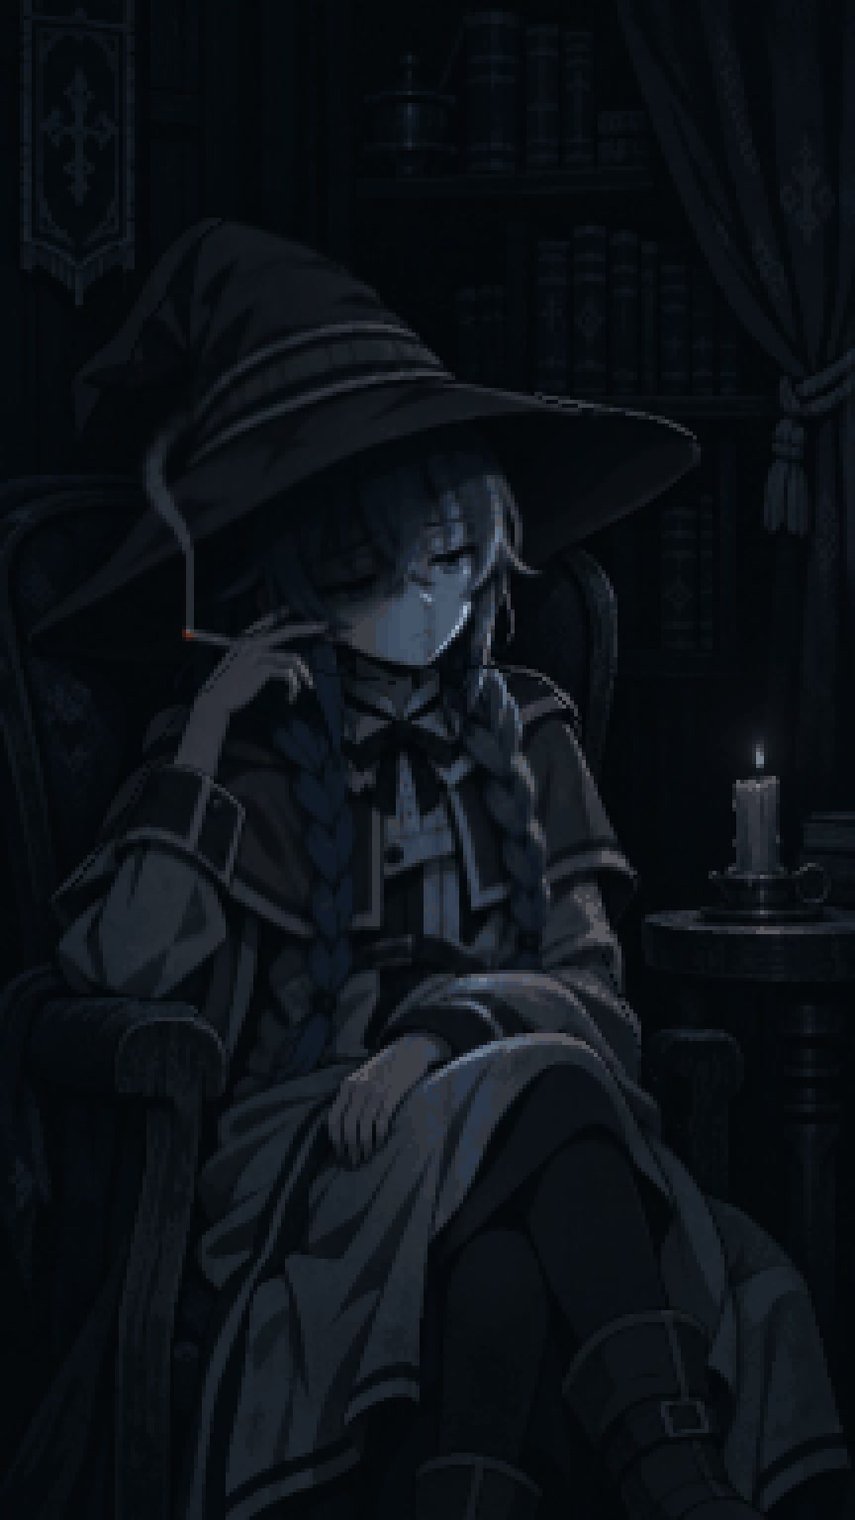
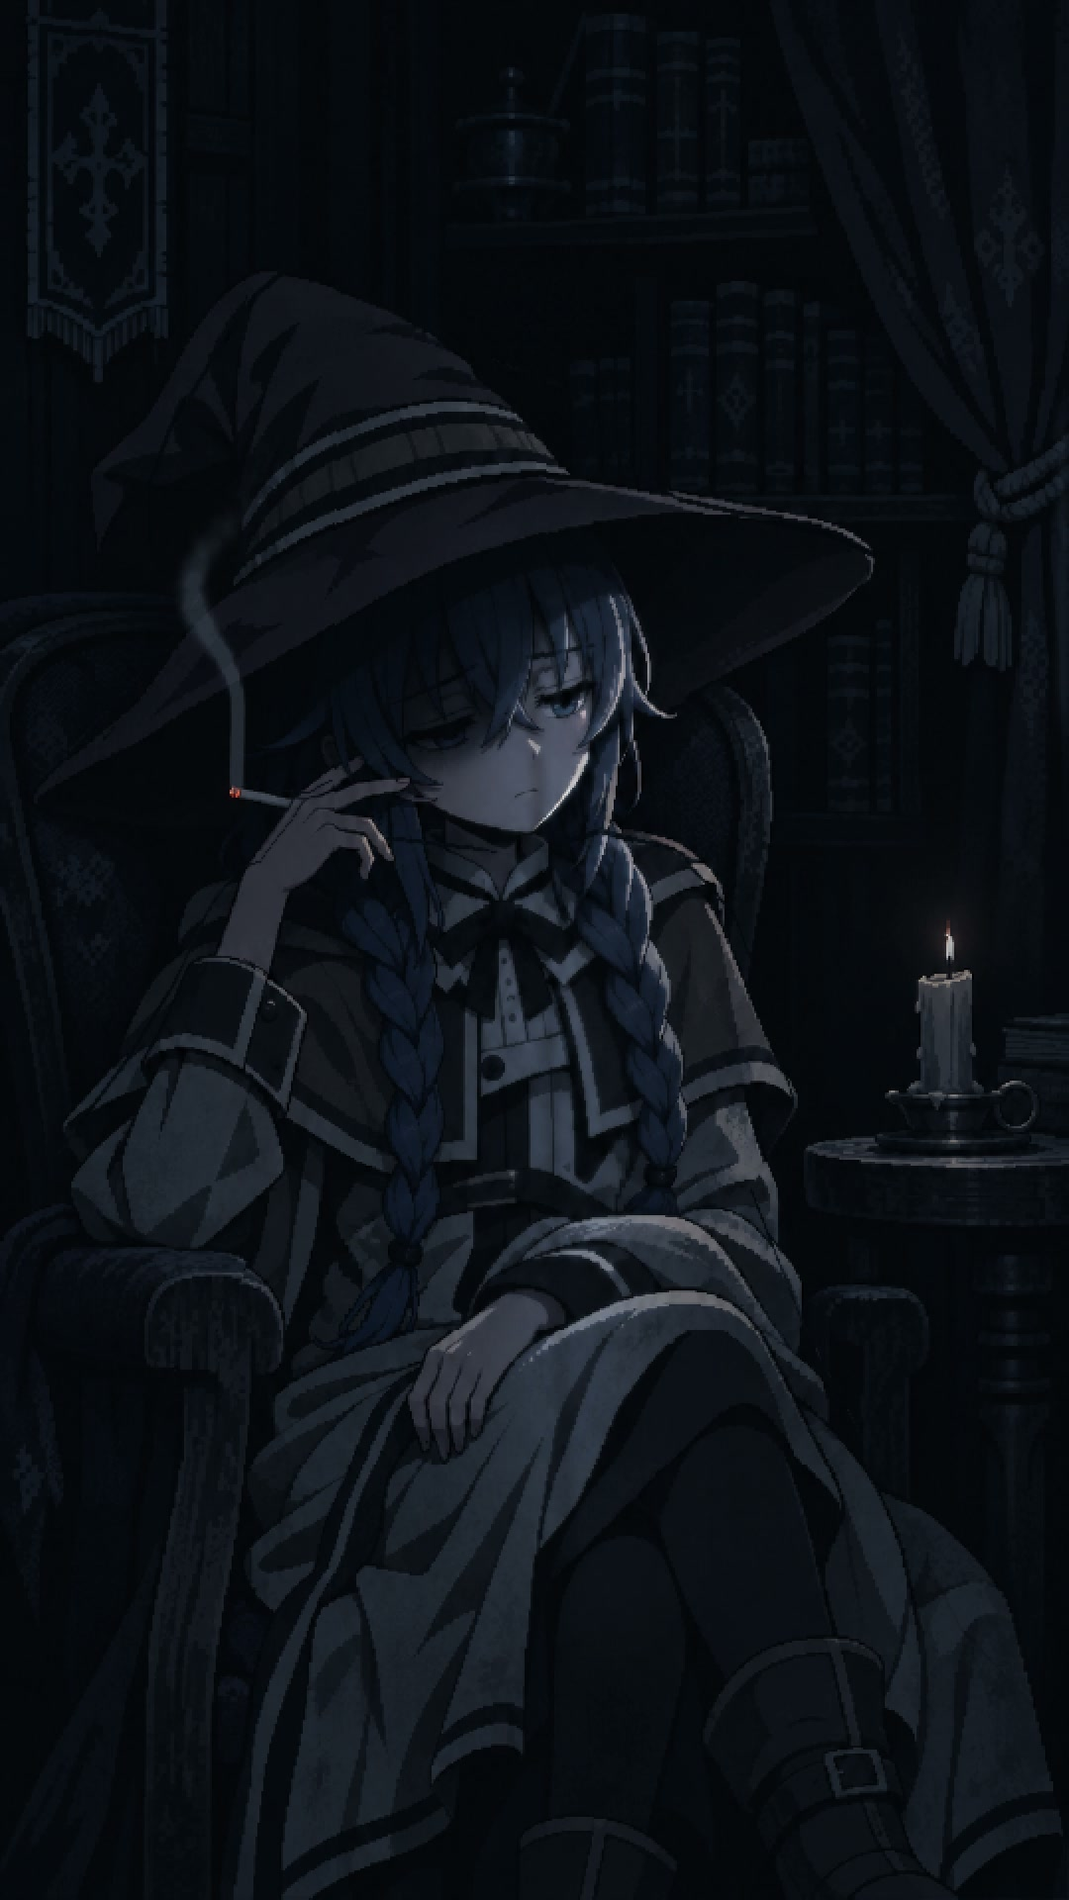
Preserve source detail and repair Roxy blinks

diff --git a/skills/atlas-pixel-mood-reel/references/anime-pixel-clips.md b/skills/atlas-pixel-mood-reel/references/anime-pixel-clips.md
@@ -32,7 +32,11 @@ Scope: short vertical clips (15-30 s, 1080x1920). A famous anime scene or charac
 
 ## 2. Pixelize, then edit at grid level
 
-- **Pipeline.** Crop to 9:16, BOX-downscale to 180x320, apply `MedianFilter(3)`, quantize to about 40-44 colours (MEDIANCUT, no dither), then upscale x6 nearest to 1080x1920.
+Choose settings per base; the numbers below are recipe starting points, not mandatory grid or palette limits.
+
+- **Quality comparison.** Compare matching face, braid and clothing crops from the approved source, the logical-grid render before encoding and the decoded MP4 at the same scene time. Keep iris separation, a readable lash and hair strands while retaining visible dots at phone width. Separate grid/palette loss from codec loss; a low encode error does not excuse detail already missing before encoding. Increasing export dimensions, even to 4K, cannot recover that missing source detail.
+- **Preserve the ramps.** Start each render from the approved source and perform the intended grid reduction once. Keep enough local dark tones to separate hair, skin and cloth; repeated resizing, median filtering or quantization can collapse them. Adjust the grid or palette when those features fail instead of sharpening an already collapsed result.
+- **Pipeline example.** Crop to 9:16, BOX-downscale to 180x320, apply `MedianFilter(3)`, quantize to about 40-44 colours (MEDIANCUT, no dither), then upscale x6 nearest to 1080x1920. Compare against the source before adopting this coarse treatment.
 - **Low-key bases** (one small light source, mostly shadow):
   - Skip the median filter.
   - Raise contrast 1.25x before the downscale.
@@ -58,10 +62,10 @@ Scope: short vertical clips (15-30 s, 1080x1920). A famous anime scene or charac
   - **Redrawn round anime eyes (when the base's eyes must be replaced):** the eye has two colours only, a near-white sclera and one solid black pupil disc about 60% of the eye width, with no grey iris ring and no catchlight. A grey ring around a black pupil reads as a target, and a catchlight brighter than the sclera reads as a white inside the white. Repaint the old eye area by sampling outward from the eye centre, so the surrounding skin planes continue inward and no ellipse of another colour is left behind.
   - **Redraw eyes with the image model, not code layers:** when a base's eyes are rejected, edit the approved base with the image model and change only the eyes. Code painted over an existing drawing kept leaving nested outlines. If the edit endpoint refuses separate reference images, paste the reference frame as a small framed inset in a corner of the input and tell the model to paint it out. Write the eye spec into the prompt: heavy black upper eyelid sitting directly on the white; lower lid thin and broken; separate dark eye-bag crescent below with a sliver of skin between; small black pupil about 30-35% of eye width, slightly off-center; no outline ring around the eye. Present redesigned eyes with stable candidate IDs and eye zooms before building. Closed and mid-blink plates derived from unchanged approved eyes are motion assets; check their alignment and composite only the measured eye regions.
   - **Dark circles, not socket rings:** around a redrawn eye, repaint the base's dark socket mass as one flat skin tone, keeping only wide hair masses and thin strands that cross from above. The dark circle is one 2-step crescent under the eye only: the darker step touches the lower lid, then one step lighter. Make it wider than the eye and drooping a little at the outer end, never above the eye or up its sides, and never black. A dark socket, a lighter band and the eye outline stacked around the white read as "an eye inside an eye inside an eye". Black goes only on the upper lid line and the pupil. Check the open eye at the same zoom as the viewer's crop, and count the closed eye-shaped outlines: only the upper lid should read as one.
-  - **Whole-eye close:** the upper lid starts at the eye's outer top line and paints skin down to its leading edge. The black lash travels on that edge, and nothing of the open outline, socket ring or crease stays above it. The lower lid rises a little to meet it, and the lower lid line merges into the lash past about 60%. The pupil disc is never moved or squashed, only covered. A lid that moves inside a smaller inner eye while the outer outline stays open reads as "only the inner eye closes".
-  - **Shut eye:** one lash curve spans the full eye width, bowed down and levelled to the screen. A stroke following the head tilt reads as a smirk. Skin sits under it, with one soft bag arc below.
-  - **Blink timing:** a held face blinks about twice per face section, never on a cut. A 0.3 s starting point at 30 fps is 9 frames: 3 closing (lid 0.25, 0.55, 0.85), 2 shut using the same drawing as the final shut eye, and 4 opening. Preserve those durations in seconds when the export frame rate changes. For a slow final close, pick each frame's lid state from a table of visible eye cells, so the visible eye shrinks linearly in time rather than holding and then snapping shut.
-  - **Blink:** close the eye with the eye's own shape. Fill only the cells between the lash curve and the descending lid edge, inside the eye outline (the iris/sclera mask), and sample each column's lid colour from the skin just above the lash. Draw the lash line at the lid's leading edge. A rectangle filled with one skin colour across the eye box read as a square box over the eye.
+  - **Whole-eye close:** use matched drawn mid-blink and closed-eye plates of the approved face. Follow the real eye aperture with fixed eye corners and unchanged bangs; the upper lid and dark lash move together while the pupil is covered, not squashed or moved. Extract only the intended eye region. A rectangular wipe or an invented straight lash cannot substitute for these aligned drawings.
+  - **Shut eye:** one natural dark lash follows the approved eye's corners and facial plane, with skin below it. Remove residual iris highlights and cyan inner arcs; a second bright curve can read as an eye still open inside the closed one.
+  - **Blink timing:** a held face blinks about twice per face section, never on a cut. A 0.3 s starting point at 30 fps is 9 frames: 3 closing (lid 0.25, 0.55, 0.85), 2 shut using the same drawing as the final shut eye, and 4 opening. Preserve those durations in seconds when the export frame rate changes. For a slow final close, define half-close and shut beats in seconds and interpolate the matched drawings continuously; simply lengthening a wipe does not make it natural.
+  - **Blink continuity:** interpolate through the aligned drawings using the same eye-aperture mapping into full closure. Do not switch to an unrelated full-close branch at the last threshold. Review actual encoded onset, half-close, shut and reopening frames with their immediate neighbours, then watch the whole blink at phone width. Inspect eye-region frame deltas for a sudden jump, lash replacement or wipe; a pleasing closed still alone does not establish a natural blink.
   - **Painted smoke in the base** (the generator draws a frozen plume, and animated smoke goes on top). Avoid this by prompting the base without smoke. Use this recipe only when the chosen base already has a plume:
     - **Mask:** the largest connected component of `lum - median31(lum) > 6` and low saturation inside a box around the plume, closed, dilated about 14 px. Add a hand-traced centreline through measured points, from the tip to the top curls, stamped as 15 px discs to take the haze. Protect hair, hood and hand, and the lit tip, by rules. A threshold mask on its own caught book edges and hair strands, and it missed the plume's base and top.
     - **Fill:** copy each masked pixel from the nearest clean pixel on its row, mirrored. Shelves and spines are horizontal or vertical, so this keeps them aligned. Then feather the edge about 2 px.
@@ -96,7 +100,7 @@ Scope: short vertical clips (15-30 s, 1080x1920). A famous anime scene or charac
 ### When fluid character motion is requested
 
 1. **Plan a readable beat.** Pair a slow head inclination or shoulder breath with delayed braid-tip motion and a natural blink. At 216x384, roughly 1-2 art px of breath or tip travel and a 1-degree head tilt are useful proof ranges, not mandatory amplitudes. Judge the result at phone width; a camera zoom or changing noise does not establish character acting.
-2. **Prepare matched plates.** Keep the approved drawing as the foreground. Generate an empty-room/chair plate for revealed edges and an eyelids-closed plate for blinks, preserving camera, geometry, palette and lighting. Compare fixed background landmarks and eye corners before extracting masks. Replace only the intended regions so an edit cannot subtly redesign the rest of the frame.
+2. **Prepare matched plates.** Keep the approved drawing as the foreground. Generate an empty-room/chair plate for revealed edges and matched mid-blink and eyelids-closed plates, preserving camera, geometry, palette and lighting. Compare fixed background landmarks, eye corners and bangs before extracting masks. Replace only the intended regions so an edit cannot subtly redesign the rest of the frame.
 3. **Move connected parts coherently.** Incline the head and hat as a rigid cutout around the neck over the clean plate. Feather the shoulder breathing ramp, pin hair at its roots and delay the braid tips. Keep furniture static and inspect the neck, hat edge, elbows and braid overlaps for holes, double edges or rubber-like warping. Move the cigarette and its smoke emitter through the same transform; each particle retains its emitter position at birth.
 4. **Render the requested cadence.** Evaluate motion at `t = frame_index / fps`, quantize onto the shared art grid and enlarge with nearest-neighbour sampling. Express blink duration in seconds so a 60 fps export does not halve a 30 fps blink's timing. Slow closure covers the original eye shape with aligned lids, followed by a short shut hold and a gentler reopening.
 5. **Review the encoded proof.** Include the largest movement, blink and their transitions. Inspect playback and neighbouring decoded frames at phone width, then follow the [feedback loop](feedback-loop.md) before the full render. Frame counts and unique hashes establish cadence; visible head, braid and shoulder changes establish acting.

diff --git a/docs/ROXY.md b/docs/ROXY.md
@@ -1,32 +1,29 @@
 # Roxy, after midnight
 
-Roxy Migurdia sits in a cold room with a cigarette and a faint candle. A narrow band of moonlight enters through the right curtain gap, reaches her face, braids and lap, then fades as though clouds cover the moon. This is a fan-made situation, with the accepted blue braids, witch hat and magician robe preserved.
+Roxy Migurdia sits in a cold room with a cigarette and a faint candle. Narrow moonlight enters through the right curtain gap, reaches her face, braids and lap, then fades as clouds pass. The accepted blue braids, witch hat, modest magician robe and left-hand cigarette composition remain intact.
 
-The requested format is 24 seconds, 1080×1920 at 60 fps, with no on-screen titles, captions, lyrics or decorative labels. The completed delivery is one canonical full-frame MP4; additional formats or exports require an explicit request. Library copies preserve that same master's bytes. The video and music files are not stored in this repository.
+The current v4 delivery is one text-free, full-frame MP4: **24 seconds, 2160×3840 at 60 fps**. Additional exports require an explicit request; library copies preserve the approved master bytes. Video and music files are not stored in this repository.
 
-## What the feedback changed
+## Repairing the rejected image and blink
 
-- **Identity and mood:** lock the accepted source by ID and hash, retain Roxy's canonical silhouette, and keep the grade cold and dark rather than amber and cosy.
-- **Visible acting:** make the head and hat incline together around the neck, deepen shoulder breathing and add delayed braid-tip follow-through. Use a matched closed-eye plate for two slow blinks and a clean room plate for newly revealed edges. Smoke starts at the moving cigarette tip.
-- **Moonlight:** preserve that acting and add only the source-shaped light pass. Light arrives over 3–9 seconds and fades through cloud-like occlusion from 13.5–22 seconds. The candle and unlit room corners do not follow the moonlight's exposure.
-- **Sound:** align the requested passage to the actual source, then put the music behind a karaoke-room door. Keep breath and cloth effects close to the listener, outside the distant music's reverberation path.
+The requester rejected v3's eye closure and picture quality. A source/logical/encoded comparison located most detail loss before encoding: reducing the 941×1672 drawing to 216×384 and limiting its colours merged iris, lash and hair detail. The old 0.9-second eyelid wipe left conflicting contours and switched abruptly to a separate shut-eye result near full closure. Its closed-eye plate also contained cyan arcs.
 
-## Proofs and measurements
+V4 samples the approved drawing directly onto a 540×960 grid, preserving the source's pixel clusters and local dark shade ramps without a global 160-colour cap. It performs one nearest-neighbour foreground warp per frame, then enlarges the grid ×4. The logical canvas contains 6.25 times as many cells as v3. The detail gain is established by matching source, pre-codec and decoded face crops, including a 360-pixel phone view.
 
-An independent review of the first encoded acting proof rated visibility 8/10, identity 9/10, edge continuity 8.5/10, gloom 9/10 and blink naturalness 8/10. The decoded head/face change was 21.21× the initial version, with braids 2.75×/3.44× and chest 3.15×. These comparisons support the phone-size visual review; they are not a substitute for watching the movement.
+New built-in imagegen edits supply aligned half-closed and closed-eye plates. Only the measured eye interiors change; the eye corners and overlying bangs stay anchored. Curved lash correspondence carries the open, half and closed drawings through one continuous motion. Each blink lasts 0.30 seconds, beginning at 6.88 and 17.88 seconds: 110 ms closing, 30 ms shut and 160 ms reopening. The single dark lash replaces the rejected glowing inner arc. A raw continuity probe across closure amounts 0.994–0.995 measured a maximum RGB change of 0.043, replacing the old branch's 68.57 jump; actual neighbouring encoded frames were also reviewed.
 
-The rendered moonlight stills, before video encoding, showed a peak affecting about 9.51% of the logical canvas. At 9.5 seconds the near face gained 20.30 luma and the lap/hand 8.29, while the far wall, dark corner and candle gained zero. At 23 seconds all measured moonlight lifts were zero. Unreached pixels keep the base palette; extra cold ramps are used only where the beam reaches. With moonlight disabled, five sampled frames matched the previously accepted acting exactly.
+Gentle head, shoulder and braid motion remains visible, with smoke emitted from the moving cigarette. Moonlight arrives over 3–9 seconds and disappears over 13.5–22 seconds while the room corners and candle retain their darkness.
+
+## Independent final review
+
+A fresh reviewer inspected both encoded blink sequences, native detail crops, phone-width playback, head motion and the full moonlight timeline. Scores were blink naturalness 8/10, detail 8.5/10, pixel readability 8/10, identity 9/10, edges 8.5/10 and gloom 9/10. The exact final master passed full decode and actual 0–24-second browser playback. It contains 1,440 frames with presentation steps of 1/60 second, within 1.1 microseconds.
+
[1 lines of base64/hex data omitted]
 
 ## Music timing and space
 
-The soundtrack is Mitski's [My Love Mine All Mine, official video](https://www.youtube.com/watch?v=vx4kLgnFexo). The requested approximately 1:49 vocal cue was aligned against the [official lyric video](https://www.youtube.com/watch?v=CwGbMYLjIpQ), whose audio matched this source at a 31.649-second offset (correlation 0.9314). A [timed phrase estimate](https://lrclib.net/api/get/36326470) put the cue at 110.569 seconds in this file; the cut starts at 110.349 seconds to retain its opening. The source window is 110.349–134.349 seconds. No lyrics are reproduced here.
+The soundtrack is Mitski's [My Love Mine All Mine, official video](https://www.youtube.com/watch?v=vx4kLgnFexo). The requested approximately 1:49 passage was aligned against the [official lyric video](https://www.youtube.com/watch?v=CwGbMYLjIpQ). Correlation found a 31.649-second source offset; a [timed phrase estimate](https://lrclib.net/api/get/36326470) placed the cue at 110.569 seconds, so the 24-second cut starts at 110.349 seconds. No lyrics are reproduced here.
 
-The path uses a 150 Hz speaker high-pass, 6.5 kHz speaker low-pass, wall low-passes at 2.1/4.2 kHz, restrained box resonance and wow, early reflections and dark hall tails. Wet/direct RMS was calibrated to 0.78 on this song. The mix measured vocal-envelope correlation 0.8148, IR T30 2.307 seconds and music 24 dB above room ambience. Subjective listening was not observed; these are measurement results.
[1 lines of base64/hex data omitted]
 
-The reusable procedure is in [the feedback-loop reference](../skills/atlas-pixel-mood-reel/references/feedback-loop.md). Keep full-resolution source/export hashes, decoded proofs and the final independent verdict with a production project, and preserve the approved master bytes when copying to a library.
-
-## Final export verification
-
-The independent review of the exact v3 exports passed: the full arrival over 3–9 seconds, gradual withdrawal and completely unlit ending at 22.5–23.983 seconds retain the cold mood, accepted character and text-free frame. All 1,440 decoded frames are unique; full decode and the requested 1080×1920, 60 fps, 24-second format passed. The final mux copies the reviewed silent video's packets exactly, and the decoded audio matches the measured Mitski mix at correlation 0.9999966. Sampled scene regeneration at 0, 9.5 and 23.983 seconds passed with access to previous project folders denied; no denied open was attempted.
-
[1 lines of base64/hex data omitted]
+The reusable procedure is in [the feedback-loop reference](../skills/atlas-pixel-mood-reel/references/feedback-loop.md). Keep actual decoded proofs and the exact final verdict with a production project, and compare against the requester's rejected output before accepting a repair.

diff --git a/skills/atlas-pixel-mood-reel/SKILL.md b/skills/atlas-pixel-mood-reel/SKILL.md
@@ -32,7 +32,7 @@ Every decision is judged against these. Explicit requester instructions take pri
 - **A real room.** Dark does not mean empty. The background is a readable interior in the dark (a window with neon blinds, pipes, a shelf, a poster).
 - **Text follows the request.** Default to full-frame artwork without added titles, caption bars, lyrics or decorative labels. Add wording only when it belongs to the requested scene or the requester asks for it; a request for no text also removes title framing from alternate exports.
 - **One completed MP4.** Deliver one canonical master by default. For Atlas, this takes precedence over generic workflows that create a normal/shorts pair; additional formats or delivery exports require an explicit request. Library copies may preserve that same master's bytes without becoming separate versions. Keep its full quality and text policy, with no unrequested title wrapper or re-encoding.
-- **Working method.** Check a phone-size still before rendering, then review actual decoded motion using the [feedback loop](references/feedback-loop.md). Fix every weakness that can be fixed before delivering. List as "remaining" only what truly cannot be fixed in this base, with the reason. Read the other collaborator's review posts as well.
+- **Working method.** Compare the source, logical-grid render and encoded result at matching crops, then check a phone-size still and actual decoded motion using the [feedback loop](references/feedback-loop.md). Fix every weakness that can be fixed before delivering. List as "remaining" only what truly cannot be fixed in this base, with the reason. Read the other collaborator's review posts as well.
 
 ## Defaults that change per piece
 
@@ -48,7 +48,7 @@ These worked so far. Treat them as starting points, not rules.
 
 1. **Merge the request into one spec.** Requests often arrive as a burst of short messages; later messages override earlier ones. Write the beats and what must read on a phone.
 2. **Base still.** Generate a TV-anime key frame (9:16, 1024x1536) that states the camera height, the pose literally, the dominant light and any requested secondary source, where each falls, the room behind, and any screen as a flat `#00FF00` placeholder inside its bezel. Generate two candidates, pixelize both, and pick by a side-by-side read at phone size. Fix framing with outpainting (blurred, dimmed pads as the space to fill), never with mirrored or tiled pads.
-3. **Pixelize.** Crop to 9:16, BOX-downscale to the grid (180x320 x6 or 216x384 x5), quantize to about 110-160 colours without dither, and replace isolated pixels. Bring the face, hands and small props through from the source with a sharpened LANCZOS downscale blended in softly. Remove a drawn mouth on the source before the downscale (plane fit of the surrounding skin).
+3. **Pixelize.** Crop to 9:16 and choose the logical grid and palette by iris, lash, hair and dark-ramp retention alongside the phone-size pixel read. Grids such as 180x320 or 216x384 and 110-160 colours are starting examples, not fixed quality targets. Resample from the source once, preserve local dark ramps and compare the logical result before encoding; a larger export cannot restore detail already collapsed into the grid. Use the reference's feature-preservation recipes only where needed. Remove an unrequested drawn mouth on the source before downscaling.
 4. **Light.** Build the light map from the drawing's own lit planes and recolour at constant luminance. Darken the base away from the source. Check region means in code, not only by eye.
 5. **Motion.** Choose the acting beats, evaluate each output timestamp and render a short proof covering their peaks and transitions. Use the reference's character-motion recipe when stronger acting is requested; keep the pixel grid and static room coherent.
 6. **Sound.** Fetch the official upload, verify the requested start against that file's own onsets, build the room path, add close effects separately, and loudness-normalise. When listening is unavailable, report measurement evidence (C50, T30, syllable-envelope correlation, transient scan) and mark listening as not observed.

diff --git a/README.md b/README.md
@@ -28,7 +28,7 @@ Still captures from the six delivered clips. The videos and songs are not stored
   <tr>
     <td align="center"><img src="docs/gallery/miku-sofa.jpg" width="220" alt="Miku on the sofa"><br><b>Miku on the sofa</b><br><sub>Hatsune Miku · 20 s<br>Caramelldansen</sub></td>
     <td align="center"><img src="docs/gallery/gojo-death.jpg" width="220" alt="Gojo"><br><b>Gojo</b><br><sub>Jujutsu Kaisen · 15 s<br>青のすみか</sub></td>
-    <td align="center"><img src="docs/gallery/roxy-moonlight.jpg" width="220" alt="Roxy in a cold room as moonlight passes across her"><br><b>Roxy, after midnight</b><br><sub>Mushoku Tensei · 24 s · 60 fps<br>Mitski · My Love Mine All Mine</sub><br><a href="docs/ROXY.md">Motion and audio notes</a></td>
+    <td align="center"><img src="docs/gallery/roxy-moonlight.jpg" width="220" alt="Roxy in a cold room as moonlight passes across her"><br><b>Roxy, after midnight</b><br><sub>Mushoku Tensei · 24 s · 4K · 60 fps<br>Mitski · My Love Mine All Mine</sub><br><a href="docs/ROXY.md">Motion and audio notes</a></td>
   </tr>
 </table>
 
